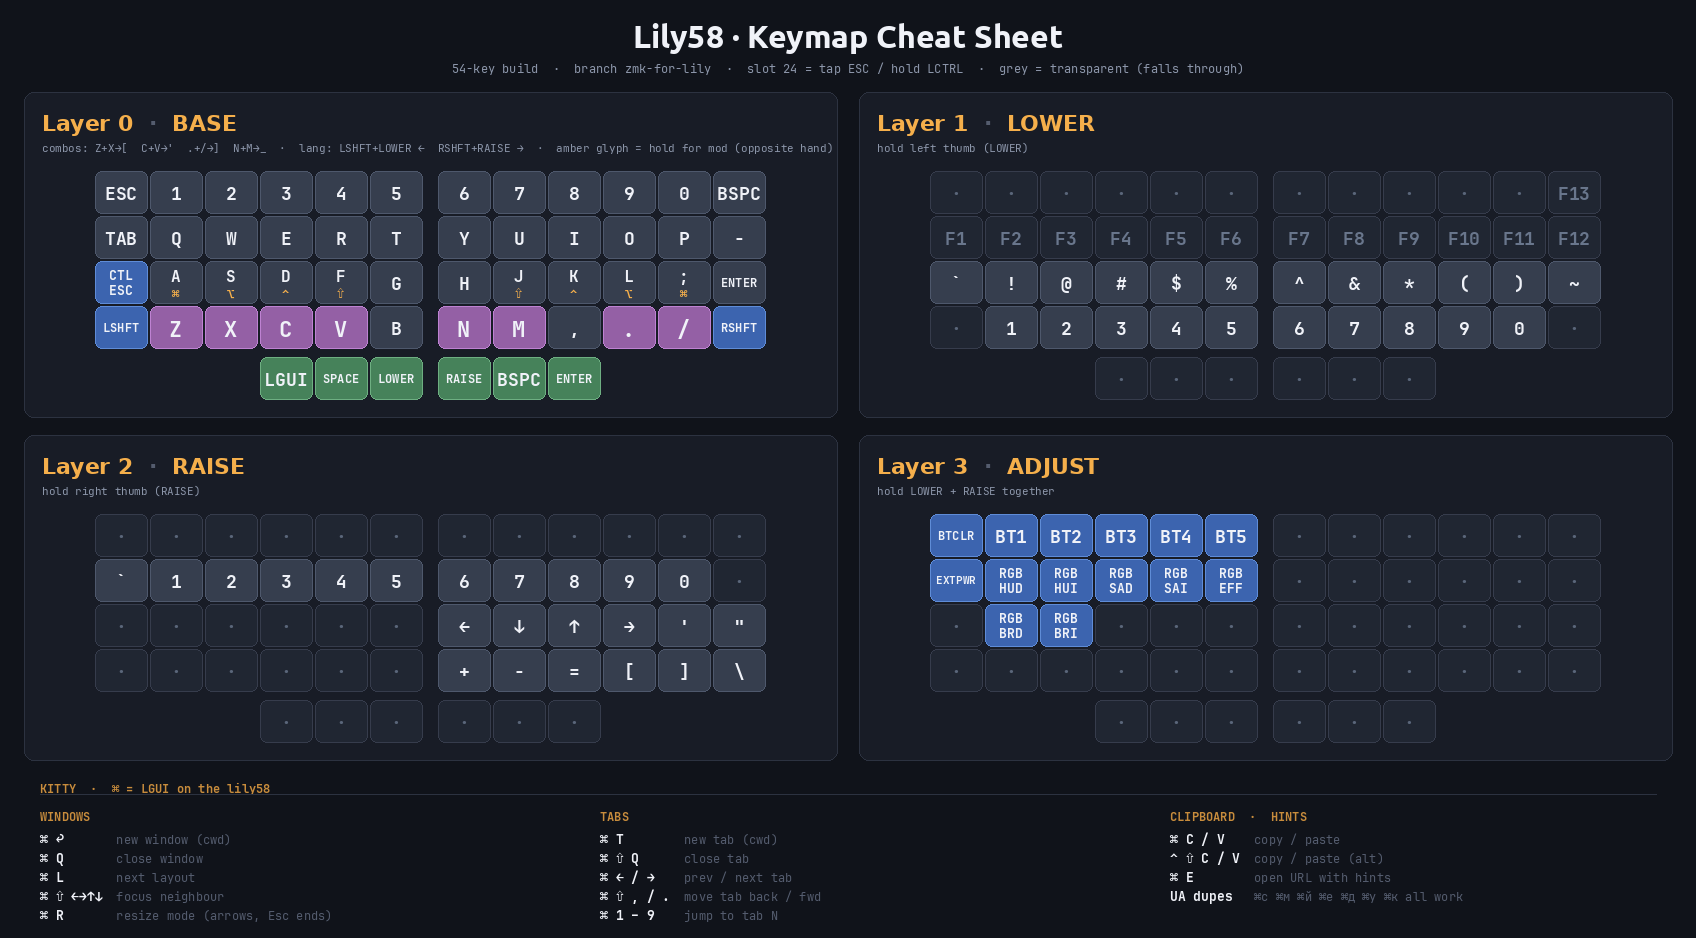
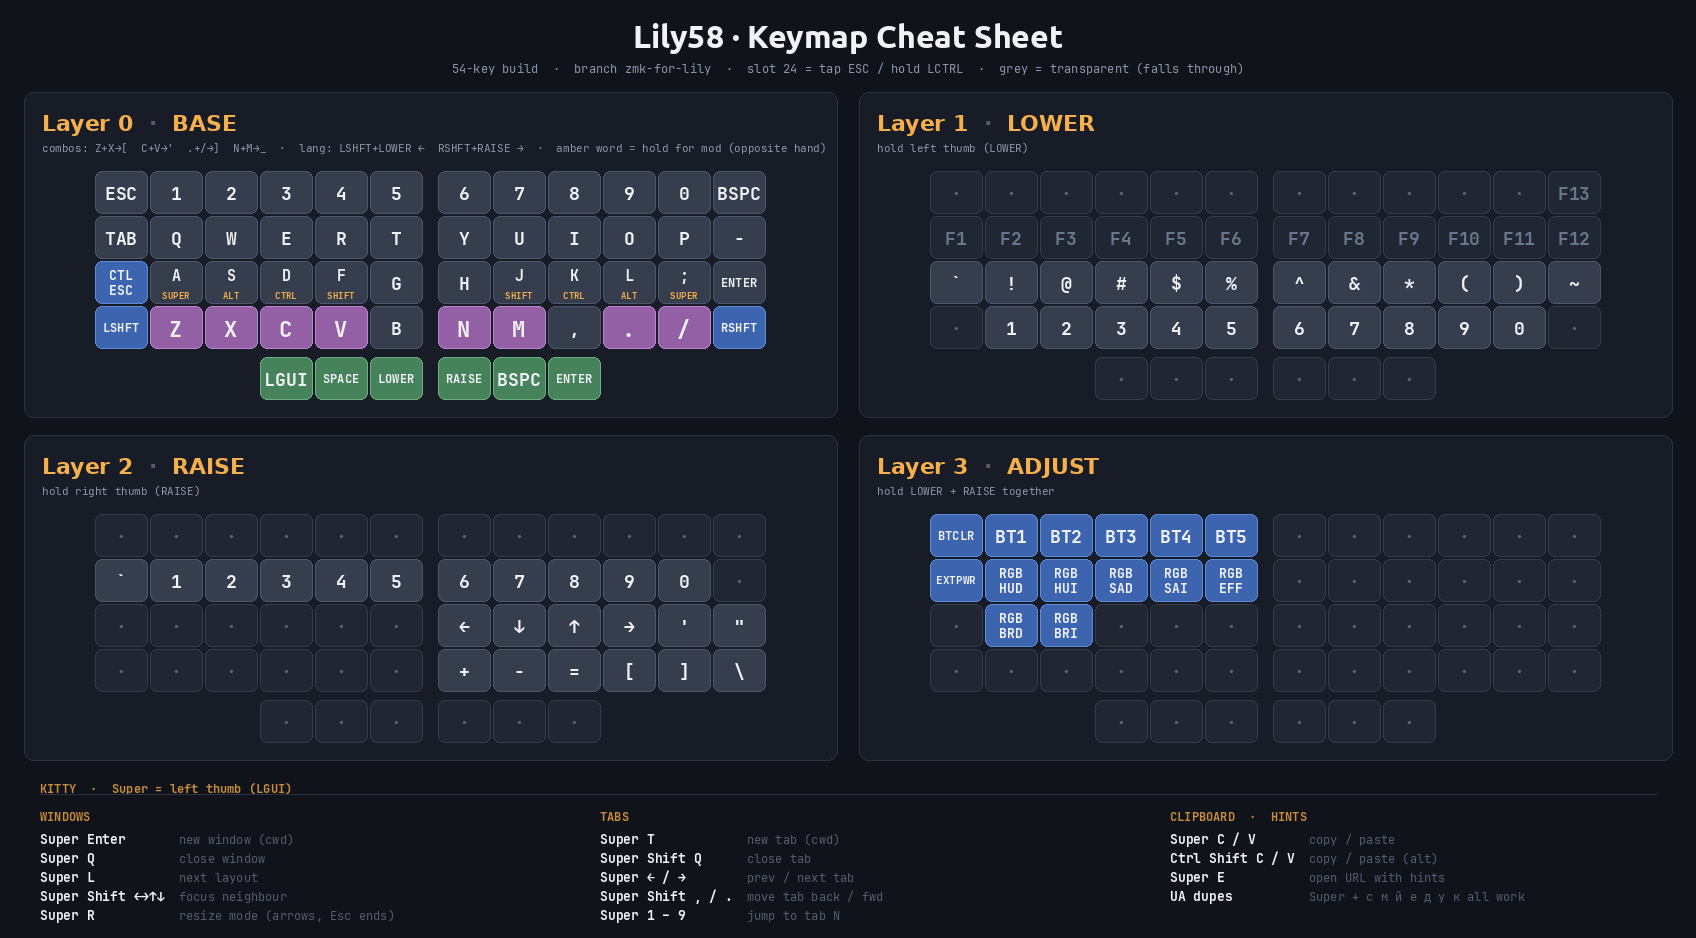
Cheat-sheet + wallpaper: spell out modifiers as words, not glyphs
User can't reliably read ⌘⌥⌃⇧ at key-cap size and doesn't remember the
Mac glyph mapping. Hold-labels on home-row keys are now SUPER/ALT/CTRL/
SHIFT words (amber, both EN and UA panels), and the kitty footer uses
"Super Enter" style throughout. Legend sample updated to match.

diff --git a/make_cheatsheet.py b/make_cheatsheet.py
@@ -65,8 +65,8 @@ BASE = [
     ("TAB", "normal"), ("Q", "normal"), ("W", "normal"), ("E", "normal"), ("R", "normal"), ("T", "normal"),
     ("Y", "normal"), ("U", "normal"), ("I", "normal"), ("O", "normal"), ("P", "normal"), ("-", "normal"),
 
-    ("CTL\nESC", "mod"), ("A\n⌘", "hrm"), ("S\n⌥", "hrm"), ("D\n⌃", "hrm"), ("F\n⇧", "hrm"), ("G", "normal"),
-    ("H", "normal"), ("J\n⇧", "hrm"), ("K\n⌃", "hrm"), ("L\n⌥", "hrm"), (";\n⌘", "hrm"), ("ENTER", "normal"),
+    ("CTL\nESC", "mod"), ("A\nSUPER", "hrm"), ("S\nALT", "hrm"), ("D\nCTRL", "hrm"), ("F\nSHIFT", "hrm"), ("G", "normal"),
+    ("H", "normal"), ("J\nSHIFT", "hrm"), ("K\nCTRL", "hrm"), ("L\nALT", "hrm"), (";\nSUPER", "hrm"), ("ENTER", "normal"),
 
     ("LSHFT", "mod"), ("Z", "combo"), ("X", "combo"), ("C", "combo"), ("V", "combo"), ("B", "normal"),
     N, N,
@@ -112,7 +112,7 @@ ADJUST = [
 ]
 
 LAYERS_DATA = [
-    ("Layer 0", "BASE",   "combos: Z+X→[  C+V→'  .+/→]  N+M→_  ·  lang: LSHFT+LOWER ←  RSHFT+RAISE →  ·  amber glyph = hold for mod (opposite hand)", BASE),
+    ("Layer 0", "BASE",   "combos: Z+X→[  C+V→'  .+/→]  N+M→_  ·  lang: LSHFT+LOWER ←  RSHFT+RAISE →  ·  amber word = hold for mod (opposite hand)", BASE),
     ("Layer 1", "LOWER",  "hold left thumb (LOWER)",                                LOWER),
     ("Layer 2", "RAISE",  "hold right thumb (RAISE)",                               RAISE),
     ("Layer 3", "ADJUST", "hold LOWER + RAISE together",                            ADJUST),
@@ -143,14 +143,14 @@ def draw_key(d, x, y, w, h, label, kind):
 
     if kind == "hrm":
         # Home-row mod: tap-identity (letter) in ink on top, hold-identity
-        # (modifier glyph) in amber below.
+        # (modifier word) in amber below.
         letter, mod = label.split("\n")
-        lf = F(MONO_BOLD, 16)
-        mf = F(MONO_BOLD, 12)
+        lf = F(MONO_BOLD, 15)
+        mf = F(MONO_BOLD, 9)
         tw = d.textlength(letter, font=lf)
         d.text((x + (w - tw) / 2, y + 4), letter, font=lf, fill=INK)
         tw = d.textlength(mod, font=mf)
-        d.text((x + (w - tw) / 2, y + h - 18), mod, font=mf, fill=AMBER)
+        d.text((x + (w - tw) / 2, y + h - 14), mod, font=mf, fill=AMBER)
         return
 
     lines = label.split("\n")
@@ -277,7 +277,7 @@ def draw_kitty_footer(canvas, footer_top):
     tail_font = F(MONO, 11)
 
     d.text((PAD_X, footer_top - 16),
-           "KITTY  ·  ⌘ = LGUI on the lily58",
+           "KITTY  ·  Super = left thumb (LGUI)",
            font=h_font, fill=AMBER_DIM)
 
     section_line_y = footer_top - 2
@@ -302,26 +302,26 @@ def draw_kitty_footer(canvas, footer_top):
             d.text((x + key_col_w, ly + 1), desc, font=desc_font, fill=MUTED)
 
     column(col1_x, "WINDOWS", [
-        ("⌘ ↩",         "new window (cwd)"),
-        ("⌘ Q",         "close window"),
-        ("⌘ L",         "next layout"),
-        ("⌘ ⇧ ←→↑↓",   "focus neighbour"),
-        ("⌘ R",         "resize mode (arrows, Esc ends)"),
+        ("Super Enter",        "new window (cwd)"),
+        ("Super Q",            "close window"),
+        ("Super L",            "next layout"),
+        ("Super Shift ←→↑↓",   "focus neighbour"),
+        ("Super R",            "resize mode (arrows, Esc ends)"),
     ])
 
     column(col2_x, "TABS", [
-        ("⌘ T",         "new tab (cwd)"),
-        ("⌘ ⇧ Q",       "close tab"),
-        ("⌘ ← / →",     "prev / next tab"),
-        ("⌘ ⇧ , / .",   "move tab back / fwd"),
-        ("⌘ 1 – 9",     "jump to tab N"),
+        ("Super T",            "new tab (cwd)"),
+        ("Super Shift Q",      "close tab"),
+        ("Super ← / →",        "prev / next tab"),
+        ("Super Shift , / .",  "move tab back / fwd"),
+        ("Super 1 – 9",        "jump to tab N"),
     ])
 
     column(col3_x, "CLIPBOARD  ·  HINTS", [
-        ("⌘ C / V",     "copy / paste"),
-        ("⌃ ⇧ C / V",   "copy / paste (alt)"),
-        ("⌘ E",         "open URL with hints"),
-        ("UA dupes",    "⌘с ⌘м ⌘й ⌘е ⌘д ⌘у ⌘к all work"),
+        ("Super C / V",        "copy / paste"),
+        ("Ctrl Shift C / V",   "copy / paste (alt)"),
+        ("Super E",            "open URL with hints"),
+        ("UA dupes",           "Super + с м й е д у к all work"),
     ])
 
 

diff --git a/make_wallpaper.py b/make_wallpaper.py
@@ -98,8 +98,8 @@ BASE_EN = [
     ("TAB", "normal"), ("Q", "normal"), ("W", "normal"), ("E", "normal"), ("R", "normal"), ("T", "normal"),
     ("Y", "normal"), ("U", "normal"), ("I", "normal"), ("O", "normal"), ("P", "normal"), ("-", "normal"),
     # row 2 — home-row mods: tap = letter, hold = amber modifier
-    ("CTL\nESC", "mod"), ("A\n⌘", "hrm"), ("S\n⌥", "hrm"), ("D\n⌃", "hrm"), ("F\n⇧", "hrm"), ("G", "normal"),
-    ("H", "normal"), ("J\n⇧", "hrm"), ("K\n⌃", "hrm"), ("L\n⌥", "hrm"), (";\n⌘", "hrm"), ("ENTER", "normal"),
+    ("CTL\nESC", "mod"), ("A\nSUPER", "hrm"), ("S\nALT", "hrm"), ("D\nCTRL", "hrm"), ("F\nSHIFT", "hrm"), ("G", "normal"),
+    ("H", "normal"), ("J\nSHIFT", "hrm"), ("K\nCTRL", "hrm"), ("L\nALT", "hrm"), (";\nSUPER", "hrm"), ("ENTER", "normal"),
     # row 3 (14 slots, &none at 42, 43)
     ("LSHFT", "mod"), ("Z", "combo"), ("X", "combo"), ("C", "combo"), ("V", "combo"), ("B", "normal"),
     N, N,
@@ -121,8 +121,8 @@ BASE_UA = [
     ("TAB", "normal"), ("Й", "normal"), ("Ц", "normal"), ("У", "normal"), ("К", "normal"), ("Е", "normal"),
     ("Н", "normal"), ("Г", "normal"), ("Ш", "normal"), ("Щ", "normal"), ("З", "normal"), ("-", "normal"),
     # row 2: A S D F G H J K L ; → Ф І В А П Р О Л Д Ж — same HRM holds
-    ("CTL\nESC", "mod"), ("Ф\n⌘", "hrm"), ("І\n⌥", "hrm"), ("В\n⌃", "hrm"), ("А\n⇧", "hrm"), ("П", "normal"),
-    ("Р", "normal"), ("О\n⇧", "hrm"), ("Л\n⌃", "hrm"), ("Д\n⌥", "hrm"), ("Ж\n⌘", "hrm"), ("ENTER", "normal"),
+    ("CTL\nESC", "mod"), ("Ф\nSUPER", "hrm"), ("І\nALT", "hrm"), ("В\nCTRL", "hrm"), ("А\nSHIFT", "hrm"), ("П", "normal"),
+    ("Р", "normal"), ("О\nSHIFT", "hrm"), ("Л\nCTRL", "hrm"), ("Д\nALT", "hrm"), ("Ж\nSUPER", "hrm"), ("ENTER", "normal"),
     # row 3: Z X C V B → Я Ч С М И ; N M , . / → Т Ь Б Ю .
     ("LSHFT", "mod"), ("Я", "combo"), ("Ч", "combo"), ("С", "combo"), ("М", "combo"), ("И", "normal"),
     N, N,
@@ -207,14 +207,14 @@ def draw_key(d, x, y, w, h, label, kind, secondary=False):
 
     if kind == "hrm":
         # Home-row mod: tap-identity (letter) in ink, hold-identity
-        # (modifier glyph) in amber below it.
+        # (modifier word) in amber below it.
         letter, mod = label.split("\n")
-        lf = F(MONO_BOLD, 18)
-        mf = F(MONO_BOLD, 13)
+        lf = F(MONO_BOLD, 17)
+        mf = F(MONO_BOLD, 10)
         tw = d.textlength(letter, font=lf)
         d.text((x + (w - tw) / 2, y + 5), letter, font=lf, fill=INK)
         tw = d.textlength(mod, font=mf)
-        d.text((x + (w - tw) / 2, y + h - 20), mod, font=mf, fill=AMBER)
+        d.text((x + (w - tw) / 2, y + h - 17), mod, font=mf, fill=AMBER)
         return
 
     lines = label.split("\n")
@@ -523,10 +523,13 @@ def draw_footer(canvas, footer_top, openrouter_usage=None):
         d.rounded_rectangle([col5_x, sy, col5_x + sw, sy + sw], radius=3,
                             fill=bg, outline=border, width=1)
         d.text((col5_x + sw + 6, sy - 1), name, font=label_font, fill=INK_DIM)
-    # Hold-glyph entry — amber glyph instead of a colour swatch.
+    # Hold-word entry — amber sample word instead of a colour swatch.
     hy = body_y + len(swatches) * 17
-    d.text((col5_x, hy - 2), "⌘", font=F(MONO_BOLD, 12), fill=AMBER)
-    d.text((col5_x + sw + 6, hy - 1), "hold = mod", font=label_font, fill=INK_DIM)
+    sample = "ALT"
+    sample_font = F(MONO_BOLD, 9)
+    d.text((col5_x, hy), sample, font=sample_font, fill=AMBER)
+    sample_w = d.textlength(sample, font=sample_font)
+    d.text((col5_x + sample_w + 6, hy - 1), "= hold for mod", font=label_font, fill=INK_DIM)
 
 
 def draw_signature(canvas):
